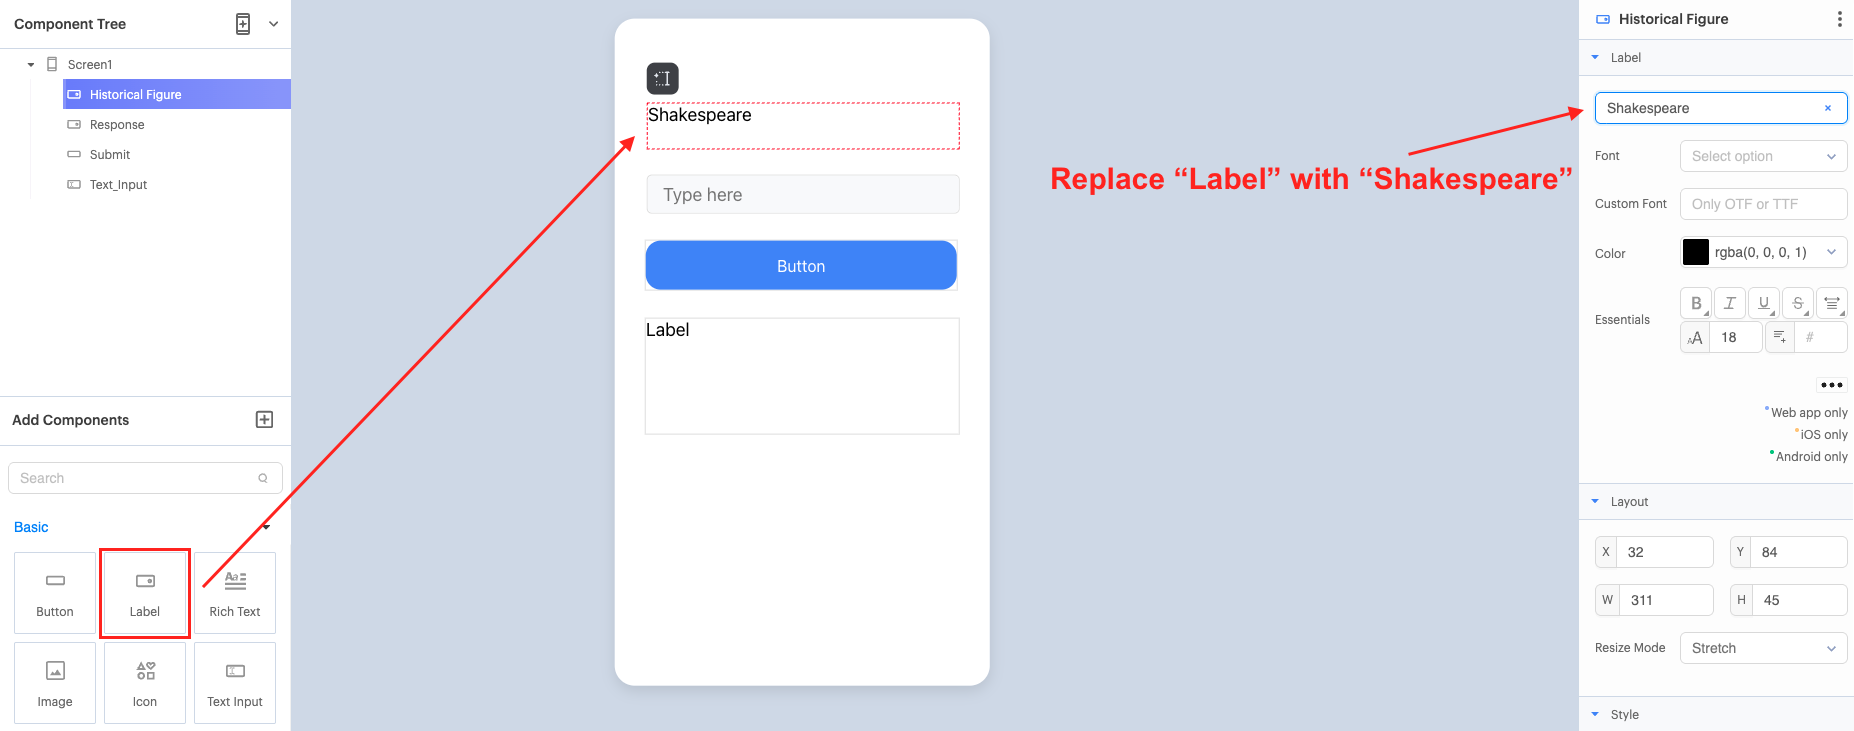
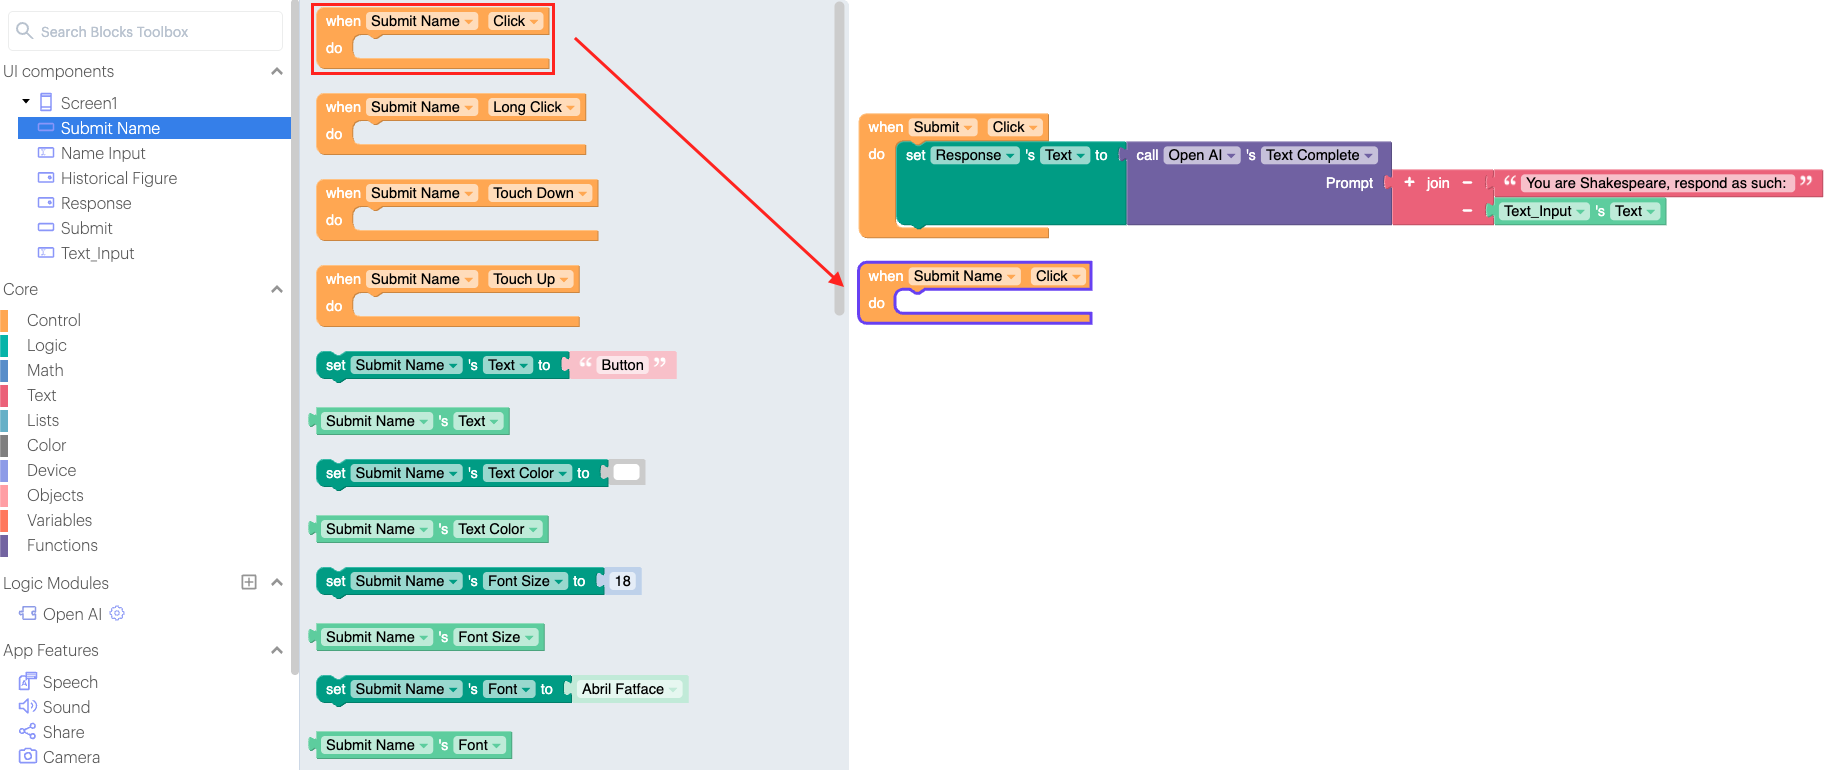
update with new version content

diff --git a/Weeks/Week 6/w6_guide.md b/Weeks/Week 6/w6_guide.md
@@ -1,5 +1,6 @@
 # Historical Figures
-Create an app where users can communicate with a “historical figure” through LLMs. Users should be able to send a message and get a response from the LLM.
+Your goal is to create an app where users can communicate with a “historical figure” through LLMs. Users should be able to send a message and get a response from the LLM.<br>
+You will receive the link to the project template from your teacher. The project is completely empty besides a block that you will use to access the LLM.
 ---
 
 # Historical Figures
@@ -19,81 +20,51 @@ Add a label to display the response from the LLM. We will rename it to “Respon
 ---
 
 # Historical Figures
+<span style="font-weight:bold">Block:</span> <span style="background-color:#735ca5;font-weight:bold;color:white">call Open AI's Text Complete</span>
+
+![Block](./Weeks/Week 6/images/w6_block_callOpenAITextComplete.png)
+
+<span style="font-style:italic">This block can be found in the <span style="font-weight:bold;color:#735ca5">Open AI</span> drawer under <span style="font-weight:bold">Logic Modules</span> in the project template.</span><br>
+The <span style="background-color:#735ca5;font-weight:bold;color:white">call Open AI's Text Complete</span> block takes in a text <span style="background-color:#735ca5;font-weight:bold;color:white">Prompt</span> for OpenAI to generate text around and will produce either a **response** or an **error**. A **response** is the generated text from the LLM answering the <span style="background-color:#735ca5;font-weight:bold;color:white">Prompt</span>. An **error** is the specific explanation for when an issue has occurred.
+---
+
+# Historical Figures
 ![Setup](./Weeks/Week 6/images/w6_4.png)
-Under **Advanced Blocks**, click the plus icon next to Open AI Services to add an Open AI Service component.
+There is already the <span style="background-color:#735ca5;font-weight:bold;color:white">call Open AI's Text Complete</span> block on the screen. We will need this block to enable communication between the user and the LLM. It is currently grayed out because it is not connected to any blocks.
 ---
 
 # Historical Figures
 ![Setup](./Weeks/Week 6/images/w6_5.png)
-Click the gear icon next to **Open_AI_Service1** to open up its properties. Under APIKey, click on the x icon to delete everything in the textbox and paste in the API Key provided by your teacher.
----
-
-# Historical Figures
-![Setup](./Weeks/Week 6/images/w6_6.png)
 Now, we want to add functionality to the button we added for the user to submit a message to the LLM. First, add the <span style="background-color:#f3aa44;font-weight:bold;color:white">when Submit Click</span> block.
 ---
 
 # Historical Figures
-<span style="font-weight:bold">Block:</span> <span style="background-color:#735ca5;font-weight:bold;color:white">call OpenAI Service's Text Completion</span>
-
-![Block](./Weeks/Week 6/images/w6_block_callOpenAIServiceTextCompletion.png)
-
-<span style="font-style:italic">This block can be found in the <span style="font-weight:bold;color:#735ca5">Open_AI_Service1</span> drawer under <span style="font-weight:bold">Advanced Blocks </span>after an Open AI Service component has been added.</span><br>
-The <span style="background-color:#735ca5;font-weight:bold;color:white">call OpenAI Service's Text Completion</span> block takes in a text <span style="background-color:#735ca5;font-weight:bold;color:white">prompt</span> for OpenAI to generate text around and has two outputs: <span style="background-color:#70ce9c;font-weight:bold;color:white">response</span> and <span style="background-color:#70ce9c;font-weight:bold;color:white">error</span>. <span style="background-color:#70ce9c;font-weight:bold;color:white">response</span> is the generated text from the LLM. If there was an issue with the API, <span style="background-color:#70ce9c;font-weight:bold;color:white">error</span> would show the issue, otherwise, <span style="background-color:#70ce9c;font-weight:bold;color:white">error</span> is “null”.
+![Setup](./Weeks/Week 6/images/w6_6.png)
+Connect the <span style="background-color:#3f9e83;font-weight:bold;color:white">set Response's Text to</span> block to the <span style="background-color:#f3aa44;font-weight:bold;color:white">when Submit Click</span> block. We want the “Response” label to update when the “Submit” button is clicked.
 ---
 
 # Historical Figures
 ![Setup](./Weeks/Week 6/images/w6_7.png)
-Connect the <span style="background-color:#735ca5;font-weight:bold;color:white">call OpenAI Service's Text Completion</span> block to the <span style="background-color:#f3aa44;font-weight:bold;color:white">when Submit Click</span> block. We want the LLM to run when the “Submit” button is clicked.
+Connect the <span style="background-color:#735ca5;font-weight:bold;color:white">call Open AI's Text Complete</span> block to the <span style="background-color:#3f9e83;font-weight:bold;color:white">set Response's Text to</span> block. We want the response from the LLM to be displayed in the “Response” label.
 ---
 
 # Historical Figures
 ![Setup](./Weeks/Week 6/images/w6_8.png)
-Connect the <span style="background-color:#70ce9c;font-weight:bold;color:white">Text_Input's Text</span> block to the <span style="background-color:#735ca5;font-weight:bold;color:white">prompt</span> part of the <span style="background-color:#735ca5;font-weight:bold;color:white">call OpenAI Service's Text Completion</span> block. We want the LLM to receive and respond to the text that the user submits.
----
-
-# Historical Figures
-![Setup](./Weeks/Week 6/images/w6_9.png)
-Connect the <span style="background-color:#f3aa44;font-weight:bold;color:white">if-else</span> block to the <span style="background-color:#735ca5;font-weight:bold;color:white">then do</span> part of the <span style="background-color:#735ca5;font-weight:bold;color:white">call OpenAI Service's Text Completion</span> block. Since the LLM can either produce a response or an error message, we want to make sure we account for both messages.
----
-
-# Historical Figures
-![Setup](./Weeks/Week 6/images/w6_10.png)
-Connect the <span style="background-color:#70ce9c;font-weight:bold;color:white">error</span> block to the <span style="background-color:#f3aa44;font-weight:bold;color:white">if</span> part of the <span style="background-color:#f3aa44;font-weight:bold;color:white">if-else</span> block. You can click and drag the <span style="background-color:#70ce9c;font-weight:bold;color:white">error</span> block directly from the <span style="background-color:#735ca5;font-weight:bold;color:white">call OpenAI Service's Text Completion</span> block. When <span style="background-color:#70ce9c;font-weight:bold;color:white">error</span> is “null”, it is treated as False.
----
-
-# Historical Figures
-![Setup](./Weeks/Week 6/images/w6_11.png)
-Connect the <span style="background-color:#3f9e83;font-weight:bold;color:white">set Response's Text to</span> block to the <span style="background-color:#f3aa44;font-weight:bold;color:white">do</span> part of the <span style="background-color:#f3aa44;font-weight:bold;color:white">if-else</span> block. We want the “Response” label to update when the LLM produces an error message.
----
-
-# Historical Figures
-![Setup](./Weeks/Week 6/images/w6_12.png)
-Connect the <span style="background-color:#70ce9c;font-weight:bold;color:white">error</span> block to the <span style="background-color:#3f9e83;font-weight:bold;color:white">set Response's Text to</span> block. We want the “Response” label to display the error message when there is an error. This would help identify any issues that may occur.
----
-
-# Historical Figures
-![Setup](./Weeks/Week 6/images/w6_13.png)
-Connect the <span style="background-color:#3f9e83;font-weight:bold;color:white">set Response's Text to</span> block to the <span style="background-color:#f3aa44;font-weight:bold;color:white">else</span> part of the <span style="background-color:#f3aa44;font-weight:bold;color:white">if-else</span> block. Now, we want the “Response” label to update when the LLM does not produce an error message (it outputs “null” for <span style="background-color:#70ce9c;font-weight:bold;color:white">error</span>), i.e., when there is a response.
----
-
-# Historical Figures
-![Setup](./Weeks/Week 6/images/w6_14.png)
-Connect the <span style="background-color:#70ce9c;font-weight:bold;color:white">response</span> block to the <span style="background-color:#3f9e83;font-weight:bold;color:white">set Response's Text to</span> block. We want the “Response” label to display the response when the LLM has successfully produced a response. Once again, you can click and drag the <span style="background-color:#70ce9c;font-weight:bold;color:white">response</span> block directly from the <span style="background-color:#735ca5;font-weight:bold;color:white">call OpenAI Service's Text Completion</span> block.
+Connect the <span style="background-color:#70ce9c;font-weight:bold;color:white">Text_Input's Text</span> block to the <span style="background-color:#735ca5;font-weight:bold;color:white">Prompt</span> part of the <span style="background-color:#735ca5;font-weight:bold;color:white">call Open AI's Text Complete</span> block. We want the LLM to receive and respond to the text that the user submits.
 ---
 
 # Historical Figures
 ![Setup](./Weeks/Week 6/images/w6_checkpoint.png)
 <span style="font-weight:bold">[Checkpoint #1: Basic LLM Response]</span><br>
-Preview the app. Check that the LLM produces a response to the text submitted by the user. You may need to wait a few seconds before there is a response.<br>
+Preview the app. Check that the LLM produces a response to the text submitted by the user. You may need to wait a few seconds before there is a response. If there is an error message, you may need to speak with your teacher to figure out the issue.<br>
 If it works, the “Response” label should display a response to the text submitted by the user. Next, we want the LLM to communicate as a historical figure.<br>
-**Let's move back to the Design tab.**
+**Let's move to the Design tab.**
 ---
 
 # Historical Figures
-![Setup](./Weeks/Week 6/images/w6_16.png)
-Add a label to display the historical figure. We will rename it to “Historical Figure”. In the properties panel, replace the default value “Label” with “Shakespeare”.<br>
-**Now, we will move onto the blocks.**
+![Setup](./Weeks/Week 6/images/w6_10.png)
+Add a label to display the name of the historical figure. We will rename it to “Historical Figure”. In the properties panel, replace the default value “Label” with “Shakespeare”.<br>
+**Now, we will move onto blocks.**
 ---
 
 # Historical Figures
@@ -101,20 +72,20 @@ Add a label to display the historical figure. We will rename it to “Historical
 
 ![Block](./Weeks/Week 6/images/w6_block_join.png)
 
-<span style="font-style:italic">This block can be found in the <span style="font-weight:bold;color:#df6078">Text Blocks</span> drawer under <span style="font-weight:bold">Core Blocks.</span></span><br>
-The <span style="background-color:#df6078;font-weight:bold;color:white">join</span> block is used to combine multiple pieces of text into one. In this case, the <span style="background-color:#df6078;font-weight:bold;color:white">text</span> blocks each containing “hello ” and “world” are joined together to be a single text value: “hello world”. Spaces are not automatically added, so they must be typed into the <span style="background-color:#df6078;font-weight:bold;color:white">text</span> blocks when necessary, such as in “hello ”. Other blocks containing text values, such as a variable or a component’s text, may be connected to this block.
+<span style="font-style:italic">This block can be found in the <span style="font-weight:bold;color:#df6078">Text</span> drawer under <span style="font-weight:bold">Core Blocks</span></span>.<br>
+The <span style="background-color:#df6078;font-weight:bold;color:white">join</span> block is used to join text values together. In this case, the <span style="background-color:#df6078;font-weight:bold;color:white">text</span> blocks, each containing “hello ” and “world”, are joined together to be a single text value: “hello world”. Spaces are not automatically added, so they must be typed into the <span style="background-color:#df6078;font-weight:bold;color:white">text</span> blocks when necessary, such as in “hello ”. Other blocks containing text values, such as a variable or a component’s text, may be connected to this block.
 ---
 
 # Historical Figures
-![Setup](./Weeks/Week 6/images/w6_17.png)
-Replace the <span style="background-color:#70ce9c;font-weight:bold;color:white">Text_Input's Text</span> block with the <span style="background-color:#df6078;font-weight:bold;color:white">join</span> block in the <span style="background-color:#735ca5;font-weight:bold;color:white">prompt</span> part of the <span style="background-color:#735ca5;font-weight:bold;color:white">call OpenAI Service's Text Completion</span> block. We want to add more information to the prompt given to the LLM so that it can communicate like a historical figure.
+![Setup](./Weeks/Week 6/images/w6_11.png)
+Replace the <span style="background-color:#70ce9c;font-weight:bold;color:white">Text_Input's Text</span> block with the <span style="background-color:#df6078;font-weight:bold;color:white">join</span> block in the <span style="background-color:#735ca5;font-weight:bold;color:white">Prompt</span> part of the <span style="background-color:#735ca5;font-weight:bold;color:white">call Open AI's Text Complete</span> block. We want to add more information to the prompt given to the LLM so that it can communicate like a historical figure.
 ---
 
 # Historical Figures
-![Setup](./Weeks/Week 6/images/w6_18.png)
+![Setup](./Weeks/Week 6/images/w6_12.png)
 In the <span style="background-color:#df6078;font-weight:bold;color:white">join</span> block:
-1. Replace the text in the top <span style="background-color:#df6078;font-weight:bold;color:white">text</span> block containing “hello ” with “You are Shakespeare, respond as such: ”. Make sure there is a space after the colon, otherwise the colon will immediately be followed by the next text value with no space.
-2. Delete the bottom <span style="background-color:#df6078;font-weight:bold;color:white">text</span> block containing “world” and replace it with the <span style="background-color:#70ce9c;font-weight:bold;color:white">Text_Input's Text</span> block.
+1. Replace the text in the top <span style="background-color:#df6078;font-weight:bold;color:white">text</span> block containing “hello ” with “You are Shakespeare, respond as such: ” (make sure there is a space after the colon, otherwise the colon will immediately be followed by the next text value with no space in between).
+2. Delete the bottom <span style="background-color:#df6078;font-weight:bold;color:white">text</span> block and replace it with the <span style="background-color:#70ce9c;font-weight:bold;color:white">Text_Input's Text</span> block.
 We want the LLM to receive the prompt:<br>
 **“You are Shakespeare, respond as such: [MESSAGE]”**, where [MESSAGE] is the text that the user submits.<br>
 This makes it so that the LLM will respond to the message as Shakespeare.
@@ -122,54 +93,65 @@ This makes it so that the LLM will respond to the message as Shakespeare.
 
 # Historical Figures
 ![Setup](./Weeks/Week 6/images/w6_checkpoint.png)
-<span style="font-weight:bold">[Checkpoint #2: Shakespeare Response]</span><br>
+<span style="font-weight:bold">[Checkpoint #2: Respond as Shakespeare]</span><br>
 Preview the app. Check that the LLM produces a response to the text submitted by the user as Shakespeare. Again, you may need to wait a few seconds before there is a response.<br>
 If it works, the “Response” label should display a response to the text submitted by the user as Shakespeare. Next, we want the LLM to communicate as a historical figure of the user’s choice.<br>
-**Let's move back to the Design tab.**
+**Let's move to the Design tab.**
 ---
 
 # Historical Figures
-![Setup](./Weeks/Week 6/images/w6_20.png)
+![Setup](./Weeks/Week 6/images/w6_14.png)
 Add a text input for users to type in the name of a historical figure. We will rename it to “Name Input”.
 ---
 
 # Historical Figures
-![Setup](./Weeks/Week 6/images/w6_21.png)
+![Setup](./Weeks/Week 6/images/w6_15.png)
 Add a button to submit the name of a historical figure. We will rename it to “Submit Name”.<br>
-**Now, we will move onto the blocks.**
+**Now, we will move onto blocks.**
 ---
 
 # Historical Figures
-![Setup](./Weeks/Week 6/images/w6_22.png)
-Now, we want to add functionality to the button we added for the user to submit the name of a historical figure. Add the <span style="background-color:#f3aa44;font-weight:bold;color:white">when Submit Name Click</span> block.
+![Setup](./Weeks/Week 6/images/w6_16.png)
+Now, we want to add functionality to the button we added for the user to submit the name of a historical figure. First, add the <span style="background-color:#f3aa44;font-weight:bold;color:white">when Submit Name Click</span> block.
 ---
 
 # Historical Figures
-![Setup](./Weeks/Week 6/images/w6_23.png)
+![Setup](./Weeks/Week 6/images/w6_17.png)
 Connect the <span style="background-color:#3f9e83;font-weight:bold;color:white">set Historical Figure's Text to</span> block to the <span style="background-color:#f3aa44;font-weight:bold;color:white">when Submit Name Click</span> block. We want the “Historical Figure” label to update when the user submits the name of a historical figure.
 ---
 
 # Historical Figures
-![Setup](./Weeks/Week 6/images/w6_24.png)
+![Setup](./Weeks/Week 6/images/w6_18.png)
 Connect the <span style="background-color:#70ce9c;font-weight:bold;color:white">Name Input's Text</span> block to the <span style="background-color:#3f9e83;font-weight:bold;color:white">set Historical Figure's Text to</span> block. We want the “Historical Figure” label to display the name of the historical figure that the user submitted.
 ---
 
 # Historical Figures
-![Setup](./Weeks/Week 6/images/w6_25.png)
+![Setup](./Weeks/Week 6/images/w6_19.png)
 Now we will adjust the <span style="background-color:#df6078;font-weight:bold;color:white">join</span> block so that it takes in the name of the historical figure that the user submitted:
 1. Click the plus icon in the <span style="background-color:#df6078;font-weight:bold;color:white">join</span> block twice to add 2 more slots for text values to be joined.
-2. First, move <span style="background-color:#70ce9c;font-weight:bold;color:white">Text_Input's Text</span> to the 4th slot.
+2. First, move <span style="background-color:#70ce9c;font-weight:bold;color:white">Text_Input's Text</span> to the 4th slot.<br>
 3. Next, you must split up the <span style="background-color:#df6078;font-weight:bold;color:white">text</span> block in the prompt so that “Shakespeare” can be replaceable. Edit the <span style="background-color:#df6078;font-weight:bold;color:white">text</span> block in the 1st slot to be “You are ” (make sure there is a space after “are”).
-4. Now, connect <span style="background-color:#70ce9c;font-weight:bold;color:white">Name Input's Text</span> to the 2nd slot.
-5. Connect a new <span style="background-color:#df6078;font-weight:bold;color:white">text</span> block to the 3rd slot with “, respond as such: ” (make sure there is a space after the colon).
+4. Connect the <span style="background-color:#70ce9c;font-weight:bold;color:white">Historical Figure's Text</span> block to the 2nd slot.
+5. Connect a new <span style="background-color:#df6078;font-weight:bold;color:white">text</span> block to the 3rd slot and write in “, respond as such: ” (make sure there is a space after the colon).
 We want the LLM to receive the prompt:<br>
 **“You are [HISTORICAL FIGURE], respond as such: [MESSAGE]”**, where [HISTORICAL FIGURE] is the name of a historical figure that the user submits and [MESSAGE] is the text that the user submits.<br>
-This makes it so that the LLM will respond to the message as the “historical figure” that the user has chosen.
+This makes it so that the LLM will respond to the message as the historical figure that the user has chosen.
 ---
 
 # Historical Figures
 ![Setup](./Weeks/Week 6/images/w6_checkpoint.png)
-<span style="font-weight:bold">[Checkpoint #3: User-Selected Historical Figure]</span><br>
+<span style="font-weight:bold">[Checkpoint #3: Custom Historical Figure]</span><br>
 Preview the app. Check that the LLM produces a response to the text submitted by the user as the historical figure submitted by the user.<br>
-If it works, you now have an app that allows the user to communicate with a “historical figure” of their choice through LLMs!
+If it works, you now have an app that allows users to communicate with a “historical figure” of their choice through LLMs!
 ---
+
+# Historical Figures
+<span style="font-weight:bold">[Extension #1: Historical Figures Selection Screen]</span><br>
+Instead of giving users the ability to pick a historical figure of their choice, provide them with pre-selected options to choose from on a **Selection** screen.<br>
+Starting with:
+1. Add another screen to the project to facilitate the selection process. You may need to rearrange the screens in the component tree.
+2. On the **Selection** screen, add buttons per historical figure.
+3. Update the **Communication** screen so that the selected historical figure is used.
+4. You may want to add a “Back” button so users can return to the **Selection** screen.
+---
+
